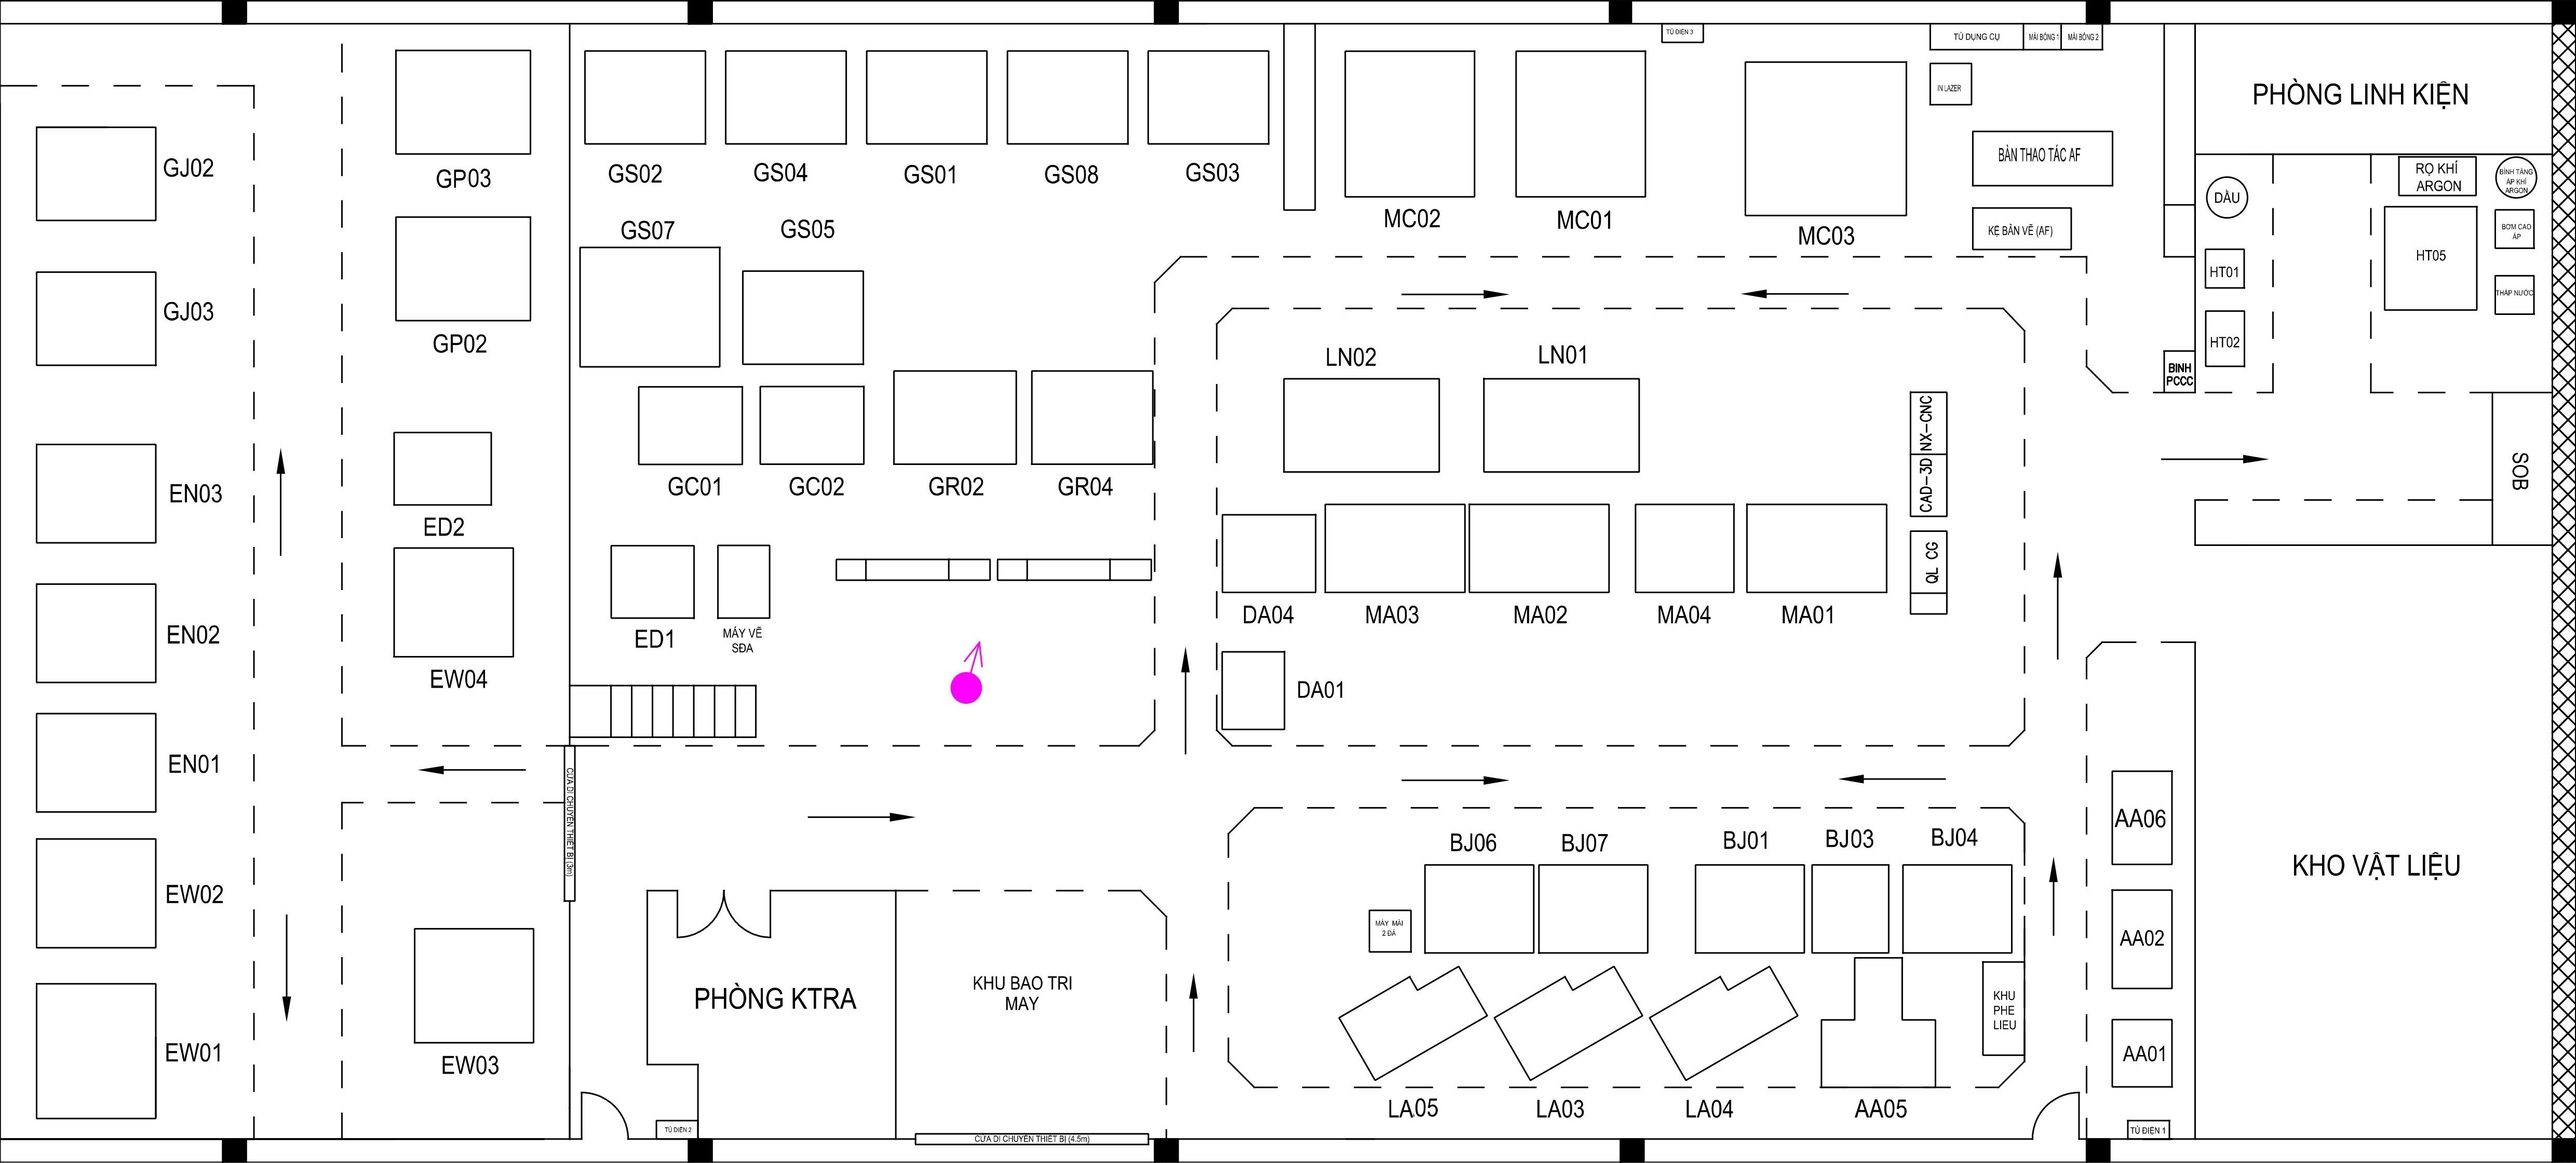
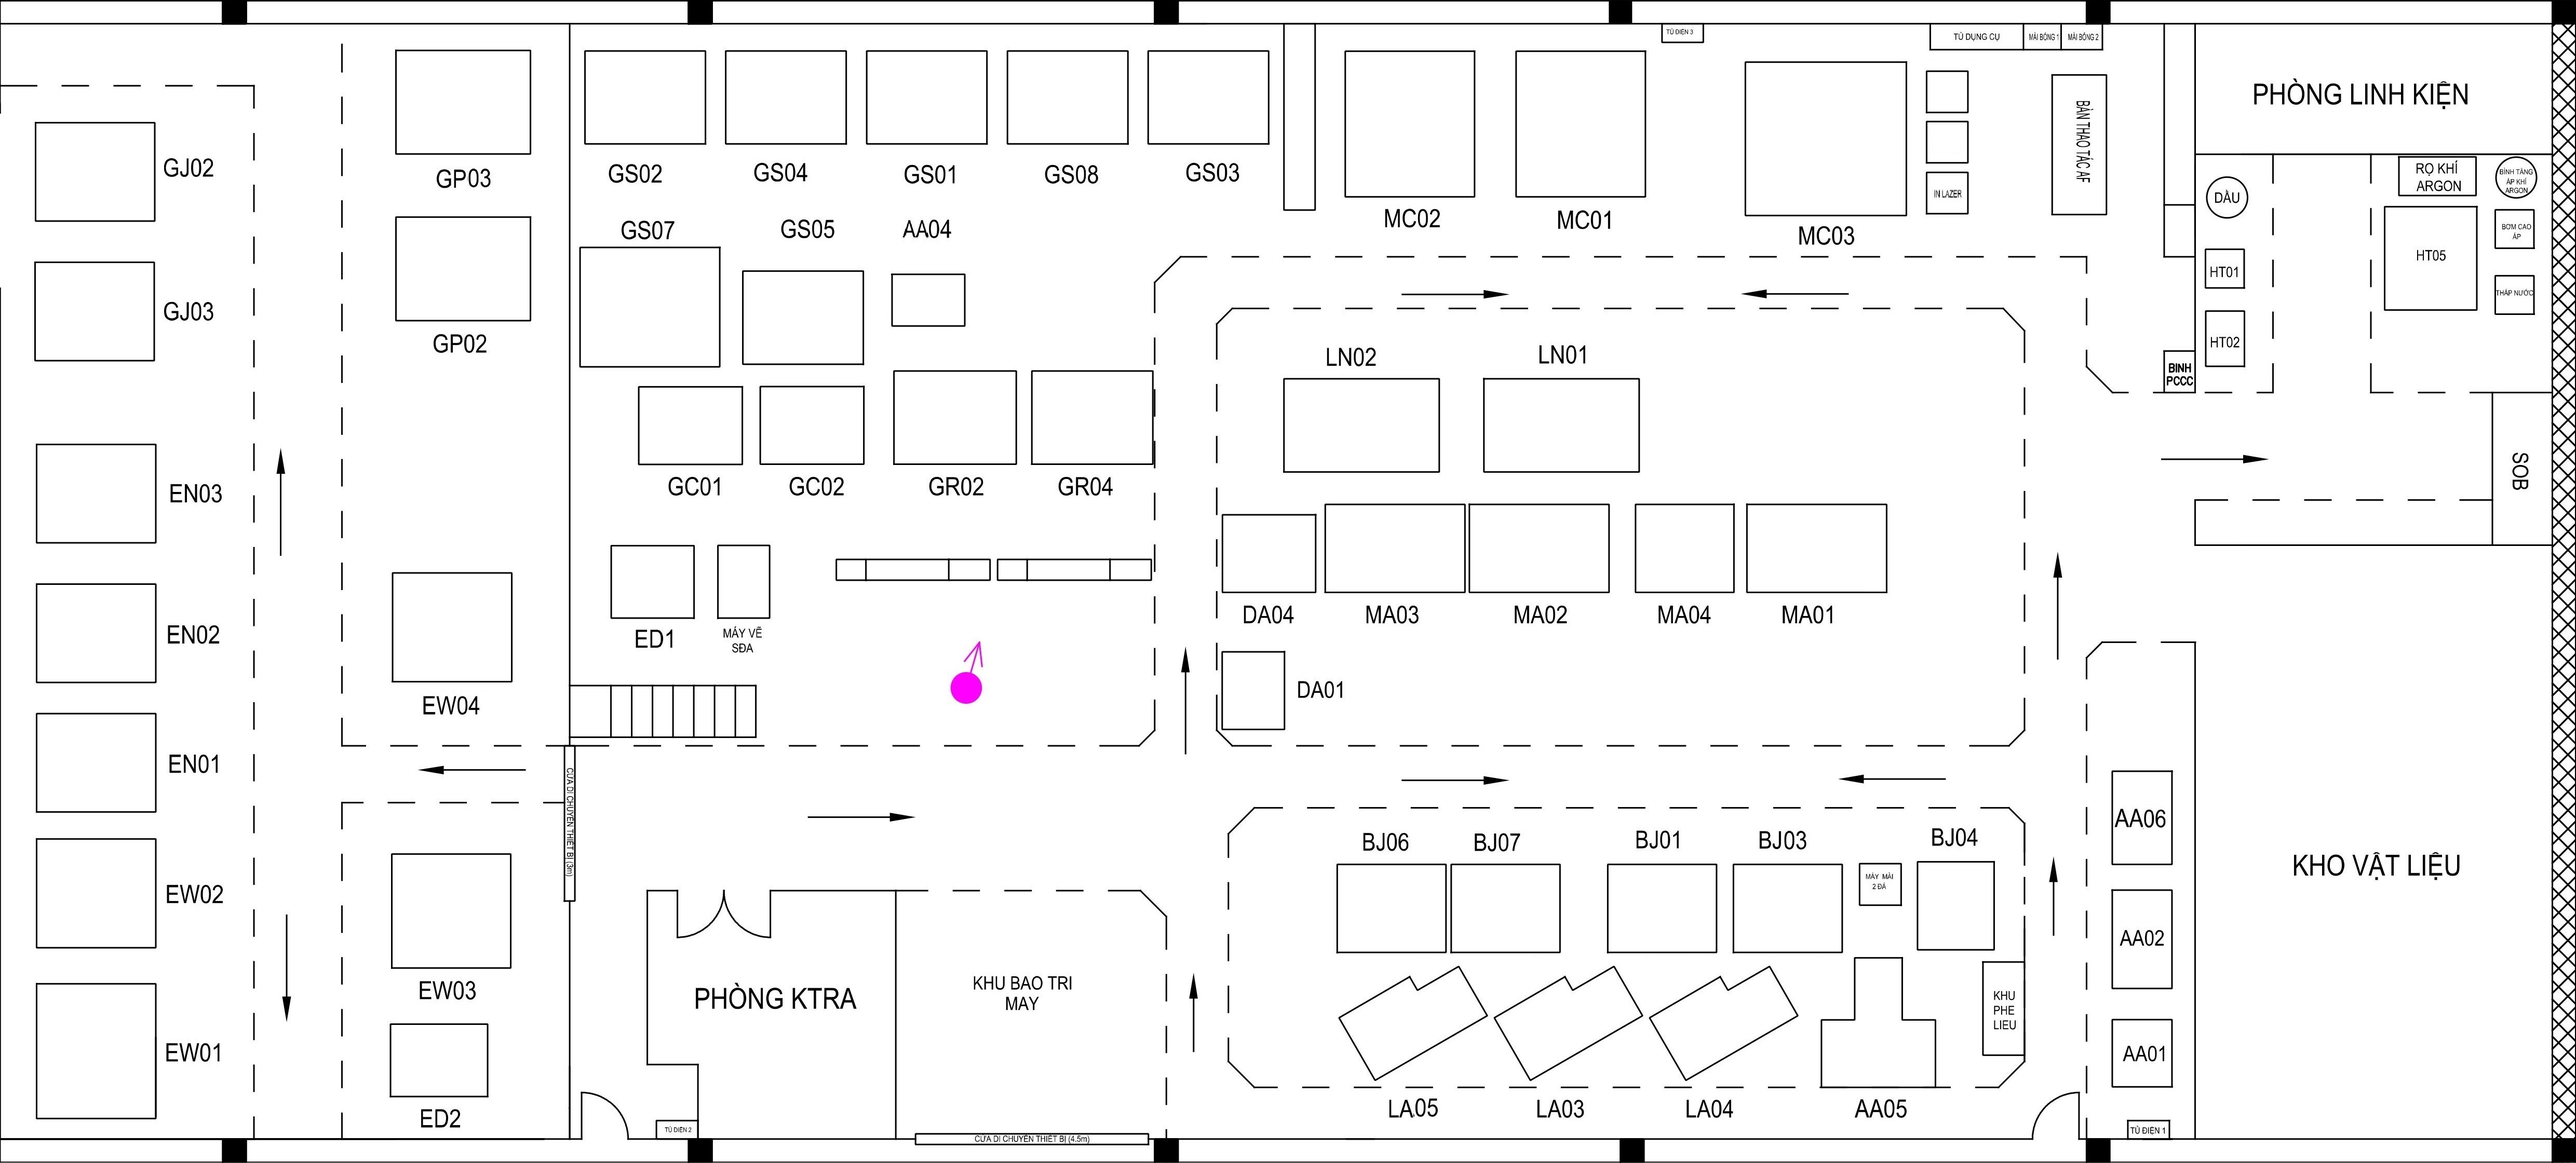
sửa lại layout BJ03->BJ08

diff --git a/src/pages/layout/CardMachine.js b/src/pages/layout/CardMachine.js
@@ -81,7 +81,6 @@ function CardMachine({ stt, machineId, posLeft, posTop, size, img }) {
     listener.subscribe(subscription_callback);
 
     function handleDataWebsocket(data) {
-      console.log(data);
       if (!data) {
         console.log(data);
         return;
@@ -136,101 +135,7 @@ function CardMachine({ stt, machineId, posLeft, posTop, size, img }) {
   };
 
   return (
-    // <HtmlTooltip
-    //   // sx={{ maxWidth: 900 }}
-    //   title={
-    //     <Card sx={{ minWidth: 960, display: 'flex', border: '1px solid #dadde9', position: 'relative' }}>
-    //       <CardMedia
-    //         component="img"
-    //         sx={{ maxHeight: 580, maxWidth: 580, objectFit: 'cover' }}
-    //         image={img}
-    //         title={machineData[1] || 'no info'}
-    //       />
-    //       <CardContent sx={{ minWidth: 360 }}>
-    //         <Typography gutterBottom variant="h3" component="div" color="primary">
-    //           {translate('Machine name')}: <span style={{ color: '#1C2025' }}>{machineData[1] || 'no info'}</span>
-    //         </Typography>
-    //         <div style={{ position: 'absolute', top: '6px', right: '18px' }}>
-    //           <SignalLight color={machineData[6] || 'off'} />
-    //         </div>
-    //         <Typography variant="subtitle1" color="#616161" sx={{ marginBottom: '10px' }}>
-    //           {translate('Operating status')}:{' '}
-    //           <span style={{ color: '#212121' }}>
-    //             {machineData[6] === 'green'
-    //               ? translate('Underload')
-    //               : machineData[6] === 'yellow'
-    //               ? translate('No-load')
-    //               : machineData[6] === 'red'
-    //               ? translate('Overloading')
-    //               : translate('Shutdown')}
-    //           </span>
-    //         </Typography>
-    //         <Typography variant="subtitle1" color="#616161" sx={{ marginBottom: '10px' }}>
-    //           {translate('No-load operating time')}:{' '}
-    //           <span style={{ color: '#212121' }}>
-    //             {machineData[3] || machineData[3] === 0 ? `${machineData[3]} ${translate('min')}` : 'no info'}
-    //           </span>
-    //         </Typography>
-    //         <Typography variant="subtitle1" color="#616161" sx={{ marginBottom: '10px' }}>
-    //           {translate('Underload operating time')}:{' '}
-    //           <span style={{ color: '#212121' }}>
-    //             {machineData[4] || machineData[4] === 0 ? `${machineData[4]} ${translate('min')}` : 'no info'}
-    //           </span>
-    //         </Typography>
-    //         <Typography variant="subtitle1" color="#616161" sx={{ marginBottom: '50px' }}>
-    //           {translate('Shutdown time')}:{' '}
-    //           <span style={{ color: '#212121' }}>
-    //             {machineData[5] || machineData[5] === 0 ? `${machineData[5]} ${translate('min')}` : 'no info'}
-    //           </span>
-    //         </Typography>
-
-    //         <Typography gutterBottom variant="h3" component="div" color="primary">
-    //           {translate('Process')}: <span style={{ color: '#1C2025' }}>{typeData[0] || 'no info'}</span>
-    //         </Typography>
-    //         <Typography variant="subtitle1" color="#616161" sx={{ marginBottom: '10px' }}>
-    //           {translate('Number of machines')}: <span style={{ color: '#212121' }}>{typeData[1] || 'no info'}</span>
-    //         </Typography>
-    //         <Typography variant="subtitle1" color="#616161" sx={{ marginBottom: '10px' }}>
-    //           {translate('Total no-load operating time')}:{' '}
-    //           <span style={{ color: '#212121' }}>
-    //             {typeData[2] || typeData[2] === 0 ? `${typeData[2]} ${translate('min')}` : 'no info'}
-    //           </span>
-    //         </Typography>
-    //         <Typography variant="subtitle1" color="#616161" sx={{ marginBottom: '10px' }}>
-    //           {translate('Total underload operating time')}:{' '}
-    //           <span style={{ color: '#212121' }}>
-    //             {typeData[3] || typeData[3] === 0 ? `${typeData[3]} ${translate('min')}` : 'no info'}
-    //           </span>
-    //         </Typography>
-    //         <Typography variant="subtitle1" color="#616161" sx={{ marginBottom: '50px' }}>
-    //           {translate('Total shutdown time')}:{' '}
-    //           <span style={{ color: '#212121' }}>
-    //             {typeData[4] || typeData[4] === 0 ? `${typeData[4]} ${translate('min')}` : 'no info'}
-    //           </span>
-    //         </Typography>
-    //       </CardContent>
-    //     </Card>
-    //   }
-    // >
-    //   <ButtonBase
-    //     machineid={machineId || null}
-    //     stt={stt}
-    //     onClick={(event) => {
-    //       redirectToDashboard(
-    //         Number(event.currentTarget.getAttribute('machineid')),
-    //         Number(event.currentTarget.getAttribute('stt')),
-    //       );
-    //     }}
-    //     style={{
-    //       position: 'absolute',
-    //       left: `${posLeft / 100}px`,
-    //       top: `${posTop / 100}px`,
-    //     }}
-    //   >
-    //     <SignalLight color={machineData[6] || 'off'} size={`${size / 100}`} custom="layout" />
-    //   </ButtonBase>
-    // </HtmlTooltip>
-    <p>
+    <div>
       <ButtonBase
         machineid={machineId || null}
         stt={stt}
@@ -268,10 +173,10 @@ function CardMachine({ stt, machineId, posLeft, posTop, size, img }) {
         onClose={handlePopoverClose}
         disableRestoreFocus
       >
-        <Card sx={{ minWidth: 960, display: 'flex', border: '1px solid #dadde9', position: 'relative' }}>
+        <Card sx={{ maxWidth: 960, display: 'flex', border: '1px solid #dadde9', position: 'relative' }}>
           <CardMedia
             component="img"
-            sx={{ maxHeight: 580, maxWidth: 580, objectFit: 'cover' }}
+            sx={{ maxWidth: 560, objectFit: 'contain' }}
             image={img}
             title={machineData[1] || 'no info'}
           />
@@ -318,7 +223,7 @@ function CardMachine({ stt, machineId, posLeft, posTop, size, img }) {
                   : 'no info'}
               </span>
             </Typography>
-            <Typography variant="subtitle1" color="#616161" sx={{ marginBottom: '50px' }}>
+            <Typography variant="subtitle1" color="#616161" sx={{ marginBottom: '40px' }}>
               {translate('Mục tiêu hoạt động có tải')}:{' '}
               <span style={{ color: '#212121' }}>
                 {machineData[2]
@@ -347,7 +252,7 @@ function CardMachine({ stt, machineId, posLeft, posTop, size, img }) {
                 {typeData[3] || typeData[3] === 0 ? `${typeData[3]} ${translate('min')}` : 'no info'}
               </span>
             </Typography>
-            <Typography variant="subtitle1" color="#616161" sx={{ marginBottom: '50px' }}>
+            <Typography variant="subtitle1" color="#616161">
               {translate('Total shutdown time')}:{' '}
               <span style={{ color: '#212121' }}>
                 {typeData[4] || typeData[4] === 0 ? `${typeData[4]} ${translate('min')}` : 'no info'}
@@ -356,7 +261,7 @@ function CardMachine({ stt, machineId, posLeft, posTop, size, img }) {
           </CardContent>
         </Card>
       </Popover>
-    </p>
+    </div>
   );
 }
 

diff --git a/src/pages/layout/SignalLightsLayout.js b/src/pages/layout/SignalLightsLayout.js
@@ -22,10 +22,11 @@ import ma2Img from 'assets/images/machines/MA02.jpg';
 import ma3Img from 'assets/images/machines/MA03.jpg';
 import ma4Img from 'assets/images/machines/MA04.jpg';
 import bj1Img from 'assets/images/machines/BJ01.jpg';
-import bj3Img from 'assets/images/machines/BJ03.jpg';
+// import bj3Img from 'assets/images/machines/BJ03.jpg';
 import bj4Img from 'assets/images/machines/BJ04.jpg';
 import bj6Img from 'assets/images/machines/BJ06.jpg';
 import bj7Img from 'assets/images/machines/BJ07.jpg';
+import bj8Img from 'assets/images/machines/BJ08.jpg';
 import la3Img from 'assets/images/machines/LA03.jpg';
 import la4Img from 'assets/images/machines/LA04.jpg';
 import la5Img from 'assets/images/machines/LA05.jpg';
@@ -277,14 +278,14 @@ function SignalLightsLayout({ width, height }) {
         img={bj1Img}
       />
 
-      {/* BJ03 */}
+      {/* BJ08 */}
       <CardMachine
         stt={21}
         machineId={machinesId[21] ? machinesId[21] : 21}
-        posLeft={width * 68.18}
+        posLeft={width * 49.4}
         posTop={height * 74.25}
         size={width * 2.5}
-        img={bj3Img}
+        img={bj8Img}
       />
 
       {/* BJ04 */}
@@ -301,7 +302,7 @@ function SignalLightsLayout({ width, height }) {
       <CardMachine
         stt={23}
         machineId={machinesId[23] ? machinesId[23] : 23}
-        posLeft={width * 52.8}
+        posLeft={width * 54}
         posTop={height * 74.25}
         size={width * 2.5}
         img={bj6Img}
@@ -311,7 +312,7 @@ function SignalLightsLayout({ width, height }) {
       <CardMachine
         stt={24}
         machineId={machinesId[24] ? machinesId[24] : 24}
-        posLeft={width * 57.18}
+        posLeft={width * 58.4}
         posTop={height * 74.25}
         size={width * 2.5}
         img={bj7Img}
